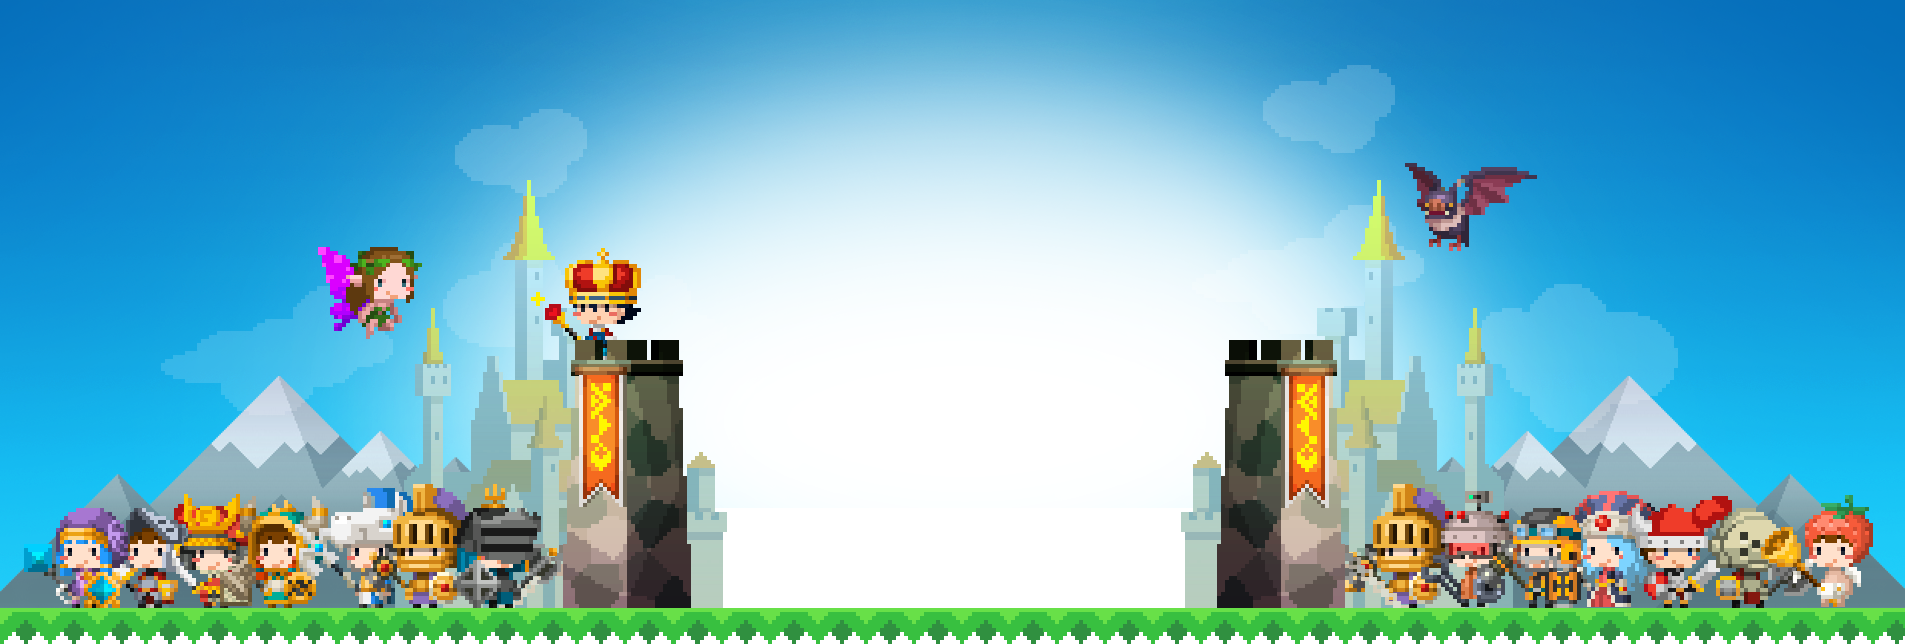
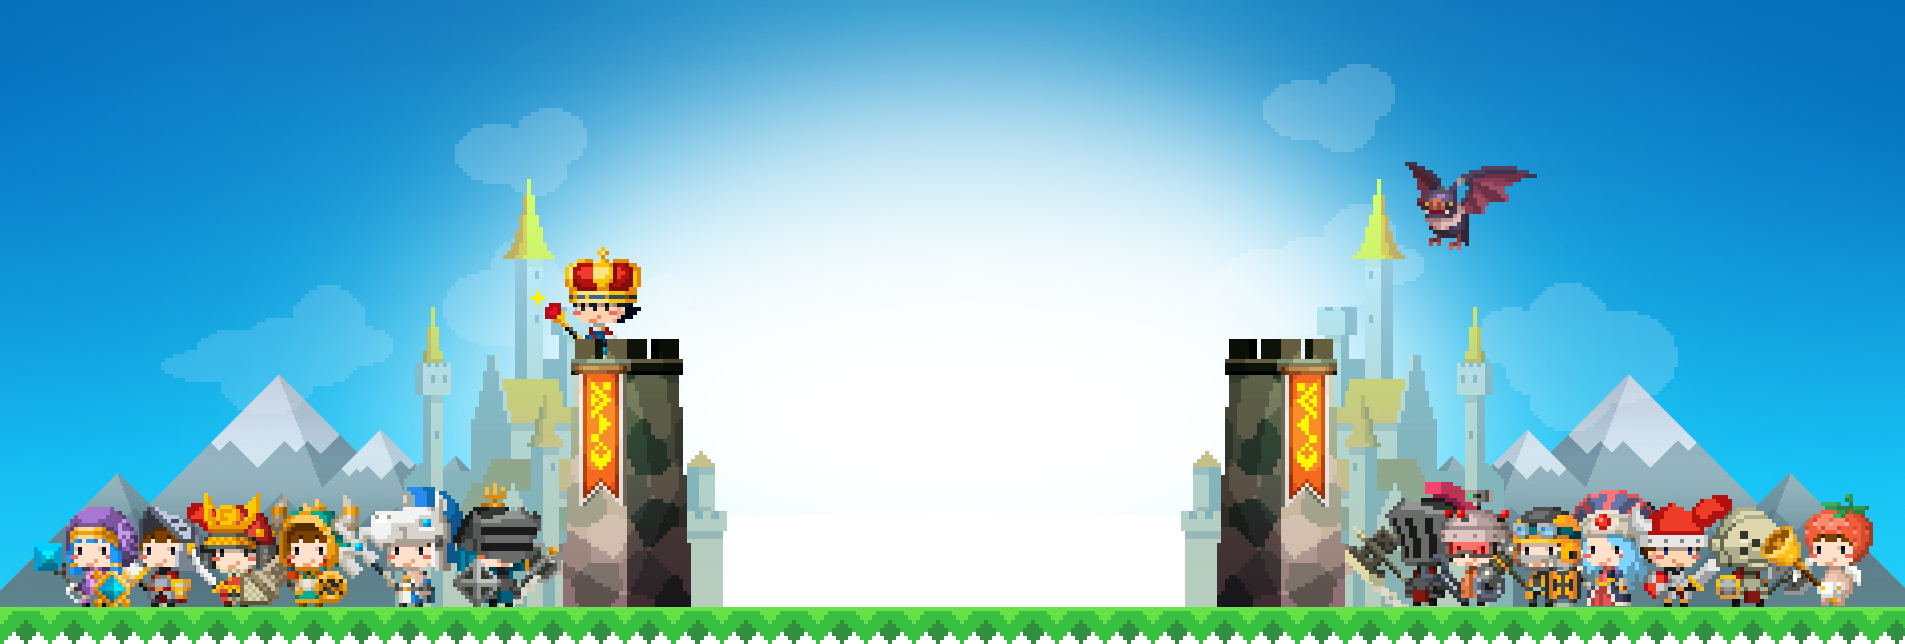
some animations

diff --git a/build/css/styles.css b/build/css/styles.css
@@ -5,21 +5,25 @@ table{border-collapse:separate;border-spacing:0;vertical-align:middle}
 caption,th,td{text-align:left;font-weight:normal;vertical-align:middle}
 a img{border:none}
 body{font:normal 16px/1.5 "Lucida Sans","Lucida Sans Unicode",sans-serif;background:#0e0703;color:#d2d2d2;}
-@media screen and (max-width:48em){body{background:url("../img/bg-small.jpg") no-repeat center 71px #211007}
+@media screen and (max-width:47.9em){body{background:url("../img/bg-small.jpg") no-repeat center 71px #211007}
 }h2{font-size:26px;margin-bottom:20px}
 h3{font-size:20px;margin-bottom:20px;color:#ffd200;}
-@media screen and (max-width:48em){h3{margin-bottom:0}
-}.nav-wrap{background:url("../img/bg-nav.png") repeat-x;height:72px;width:100%;position:fixed;top:0;z-index:5}
+@media screen and (max-width:47.9em){h3{margin-bottom:0}
+}i{font-style:normal}
+.home{background:url("../img/ico-home.png") no-repeat;height:22px;padding-left:29px;}
+a:hover > .home,li.active .home{background-position:0 -22px}
+.nav-wrap{background:url("../img/bg-nav.png") repeat-x;height:72px;width:100%;position:fixed;top:0;z-index:5}
 .nav-main{width:962px;margin:0 auto;position:relative;z-index:2;}
-@media only screen and (max-width:64em){.nav-main{width:800px}
-}@media only screen and (max-width:48em){.nav-main{width:100%}
+@media only screen and (max-width:71.250em){.nav-main{width:800px}
+}@media only screen and (max-width:47.9em){.nav-main{width:100%}
 }.nav-main>li{width:240px;height:71px;-webkit-box-sizing:border-box;-moz-box-sizing:border-box;box-sizing:border-box;float:left;text-align:center;line-height:72px;border-left:solid 1px #cadce7;-webkit-box-shadow:-1px 0 0 #fff;box-shadow:-1px 0 0 #fff;}
-@media only screen and (max-width:64em){.nav-main>li{width:200px}
+.nav-main>li.active a{color:#00c3ff}
+@media only screen and (max-width:71.250em){.nav-main>li{width:200px}
 }.nav-main>li.last{border-right:solid 1px #cadce7;}
-@media only screen and (max-width:48em){.nav-main>li.last{float:right;border-left:none;-webkit-box-shadow:none;box-shadow:none;width:172px}
-}@media only screen and (max-width:48em){.nav-main>li.desktop-link{display:none}
-}.nav-main>li>a{width:100%;height:100%;display:block;font-size:18px;color:#004b76;text-shadow:0 1px 0 #fff;text-decoration:none;}
-.nav-main>li>a:hover{color:#0091e9}
+@media only screen and (max-width:47.9em){.nav-main>li.last{float:right;border-left:none;-webkit-box-shadow:none;box-shadow:none;width:172px}
+}@media only screen and (max-width:47.9em){.nav-main>li.desktop-link{display:none}
+}.nav-main>li>a{width:100%;height:100%;display:block;font-size:18px;color:#004b76;text-shadow:0 1px 0 #fff;text-decoration:none;position:relative;}
+.nav-main>li>a:hover{color:#00c3ff}
 .nav-main>li>a.sns-link{display:inline-block}
 .nav-mobile{position:fixed;top:72px;left:0;right:0;z-index:1;height:0;-webkit-transition:height 0.2s ease-out;-moz-transition:height 0.2s ease-out;-o-transition:height 0.2s ease-out;-ms-transition:height 0.2s ease-out;transition:height 0.2s ease-out;overflow:hidden;}
 .nav-mobile.active{height:204px}
@@ -30,7 +34,7 @@ h3{font-size:20px;margin-bottom:20px;color:#ffd200;}
 #mobile-toggle{border-right:solid 1px #cadce7;-webkit-box-shadow:-1px 0 0 #fff;box-shadow:-1px 0 0 #fff;width:83px;display:none;}
 #mobile-toggle>a{background:url("../img/btn-menu.png") no-repeat;width:35px;height:24px;display:block;position:relative;top:24px;left:24px;}
 #mobile-toggle>a:hover,#mobile-toggle>a.active{background-position:0 100%}
-@media only screen and (max-width:48em){#mobile-toggle{display:block}
+@media only screen and (max-width:47.9em){#mobile-toggle{display:block}
 }.sns-link{background:url("../img/sns-links.png");margin-right:30px;margin-top:22px;text-indent:-9999px;}
 .sns-link.facebook{width:12px;height:24px;background-position:0 0;}
 .sns-link.facebook:hover{background-position:-33px 0}
@@ -39,64 +43,71 @@ h3{font-size:20px;margin-bottom:20px;color:#ffd200;}
 .sns-link.reddit{width:33px;height:27px;background-position:0 -50px;margin-right:0;}
 .sns-link.reddit:hover{background-position:-33px -50px}
 .content-wrap{width:1140px;margin:0 auto 80px;}
-@media only screen and (max-width:64em){.content-wrap{width:656px}
-}@media only screen and (max-width:48em){.content-wrap{width:320px}
+@media only screen and (max-width:71.250em){.content-wrap{width:656px}
+}@media only screen and (max-width:47.9em){.content-wrap{width:320px}
 }.logo-main{background:url("../img/logo-main.png") no-repeat;width:528px;height:153px;text-indent:-9999px;margin:0 auto 24px;}
-@media only screen and (max-width:48em){.logo-main{background:url("../img/logo-small.png") no-repeat;width:310px;height:90px}
+@media only screen and (max-width:47.9em){.logo-main{background:url("../img/logo-small.png") no-repeat;width:310px;height:90px}
 }.section-hero{height:644px;padding-top:92px;position:relative;background:url("../img/bg.png") no-repeat center 72px;z-index:2;}
-@media only screen and (max-width:48em){.section-hero{height:297px;background:none}
-}.warrior{position:absolute;width:124px;height:124px;background:url("../img/warrior-ani.gif") no-repeat;bottom:0;right:-21px;}
-@media only screen and (max-width:48em){.warrior{display:none}
+@media only screen and (max-width:47.9em){.section-hero{height:297px;background:none}
+}.warrior{position:absolute;width:215px;height:124px;background:url("../img/warrior.gif") no-repeat;bottom:0;right:-100px;}
+@media only screen and (max-width:47.9em){.warrior{display:none}
+}.angel{position:absolute;width:104px;height:96px;top:48px;left:-202px;background:url("../img/angel.gif") no-repeat;}
+@media only screen and (max-width:47.9em){.angel{display:none}
 }.section-video{background:url("../img/bg-video.jpg") no-repeat;width:654px;height:397px;top:283px;left:50%;margin-left:-327px;-webkit-box-sizing:border-box;-moz-box-sizing:border-box;box-sizing:border-box;padding:7px 7px 0;position:absolute;z-index:1;display:none;}
-@media only screen and (max-width:48em){.section-video{display:block;width:323px;height:195px;background:url("../img/bg-video-small.png") no-repeat;margin-left:-162px;top:194px;padding:4px 4px 0}
+@media only screen and (max-width:47.9em){.section-video{display:block;width:323px;height:195px;background:url("../img/bg-video-small.png") no-repeat;margin-left:-162px;top:194px;padding:4px 4px 0}
 }.embed-container{position:relative;padding-bottom:56.25%;padding-top:30px;height:0;overflow:hidden;max-width:100%;height:auto;}
-@media only screen and (max-width:48em){.embed-container{padding-top:12px}
+@media only screen and (max-width:47.9em){.embed-container{padding-top:12px}
 }.embed-container > iframe,.embed-container > object,.embed-container > embed{position:absolute;top:0;left:0;width:100%;height:100%}
 .section-signup{background:url("../img/bg-wall.png") no-repeat;width:686px;height:411px;text-align:center;color:#391c0c;position:relative;-webkit-box-sizing:border-box;-moz-box-sizing:border-box;box-sizing:border-box;padding:130px 0 0;margin:0 auto;z-index:2;}
-.section-signup p{width:400px;margin:0 auto 24px}
-@media only screen and (max-width:48em){.section-signup{display:none}
+.section-signup p{width:400px;margin:0 auto 24px;font-size:18px}
+@media only screen and (max-width:47.9em){.section-signup{display:none}
 }.post-signup{position:absolute;top:130px;left:147px}
 .btn-close{width:23px;height:24px;background:url("../img/btn-close.png") no-repeat;position:absolute;top:83px;right:41px;cursor:pointer;}
 .btn-close:hover{background-position:0 100%}
 .input-wrap{width:470px;margin:0 auto;}
-@media screen and (max-width:48em){.input-wrap{width:100%}
+@media screen and (max-width:47.9em){.input-wrap{width:100%}
 }.text-input{-webkit-border-radius:4px;border-radius:4px;background:#ebebeb;-webkit-box-shadow:inset 0 4px #bdbdbd;box-shadow:inset 0 4px #bdbdbd;border:solid 1px #ffd200;font-size:18px;display:inline-block;width:309px;height:42px;padding-left:16px;-webkit-box-sizing:border-box;-moz-box-sizing:border-box;box-sizing:border-box;vertical-align:middle;margin-right:5px;font-family:"Lucida Sans","Lucida Sans Unicode",sans-serif;}
 .text-input:focus,.text-input:active{-webkit-box-shadow:none;box-shadow:none;outline:none;background:#fff}
+.text-input.error{border-color:#f65701}
+.input-error{color:#f65701;text-align:left}
 .btn-submit{width:149px;height:44px;background:url("../img/btn-submit.png") no-repeat;text-indent:-9999px;display:inline-block;border:none;cursor:pointer;}
-@media screen and (max-width:48em){.btn-submit{display:block;margin:20px auto 0}
+@media screen and (max-width:47.9em){.btn-submit{display:block;margin:20px auto 0}
 }.btn-submit:hover{background-position:0 100%}
 .btn-submit:active,.btn-submit:focus{outline:none}
 .btn-watch-video{width:149px;height:44px;background:url("../img/btn-video.png") no-repeat;text-indent:-9999px;display:inline-block;border:none;cursor:pointer;}
 .btn-watch-video:hover{background-position:0 100%}
 .btn-watch-video:active,.btn-watch-video:focus{outline:none}
-.section-signup-secondary{background:url("../img/bg-ground.png") no-repeat;height:0;margin-top:-32px;overflow:hidden;}
-@media only screen and (max-width:48em){.section-signup-secondary{display:block}
-}@media screen and (max-width:48em){.section-signup-secondary{background:none;height:auto;margin:0}
-}.secondary-signup{text-align:center;padding:70px 0 0;}
-.secondary-signup>p{margin-bottom:20px;color:#fff;padding:0 20px}
-@media screen and (max-width:48em){.secondary-signup{padding:50px 0 0}
-}.feature-list{padding:90px 10px 70px;}
-@media screen and (max-width:64em){.feature-list{padding:90px 0 70px}
-}@media screen and (max-width:48em){.feature-list{padding:50px 0 0}
+.section-signup-secondary{background:url("../img/bg-ground.png") no-repeat;height:0;margin-top:-32px;overflow:hidden;position:relative;}
+@media only screen and (max-width:47.9em){.section-signup-secondary{display:block}
+}@media screen and (max-width:47.9em){.section-signup-secondary{background:none;height:auto;margin:0}
+}.secondary-signup{text-align:center;padding:70px 0 0;width:600px;height:150px;position:relative;margin:0 auto;}
+.secondary-signup p{margin-bottom:20px;color:#fff;padding:0 20px}
+@media screen and (max-width:47.9em){.secondary-signup{padding:50px 0 0;width:400px;height:200px}
+}.secondary-post-signup{position:absolute;top:60px;color:#fff;}
+.secondary-post-signup h2{margin-bottom:10px}
+.feature-list{padding:90px 10px 70px;}
+@media screen and (max-width:71.250em){.feature-list{padding:90px 0 70px}
+}@media screen and (max-width:47.9em){.feature-list{padding:50px 0 0}
 }.feature-item{text-align:center;display:inline-block;margin-right:105px;position:relative;}
 .feature-item.last{margin-right:0}
-@media screen and (max-width:64em){.feature-item{text-align:left;margin-right:0;margin-bottom:60px;display:block;zoom:1}
+@media screen and (max-width:71.250em){.feature-item{text-align:left;margin-right:0;margin-bottom:60px;display:block;zoom:1}
 .feature-item:before,.feature-item:after{content:"";display:table}
 .feature-item:after{clear:both}
-}@media screen and (max-width:48em){.feature-item{margin:0 auto 60px;text-align:center}
+}@media screen and (max-width:47.9em){.feature-item{margin:0 auto 60px;text-align:center}
 .feature-item.last{margin-right:auto}
-}@media screen and (max-width:64em){.feature-image{float:left}
-}@media screen and (max-width:48em){.feature-image{float:none}
+}@media screen and (max-width:71.250em){.feature-image{float:left}
+}@media screen and (max-width:47.9em){.feature-image{float:none}
 }.feature-text{width:290px;margin:0 auto;padding:28px 0 0;}
-@media screen and (max-width:64em){.feature-text{position:absolute;padding:50px 20px 0 0;left:372px}
-}@media screen and (max-width:48em){.feature-text{width:100%;position:relative;padding:18px 0 0;left:auto}
+@media screen and (max-width:71.250em){.feature-text{position:absolute;padding:50px 20px 0 0;left:372px}
+}@media screen and (max-width:47.9em){.feature-text{width:100%;position:relative;padding:18px 0 0;left:auto}
 }.slideshow-list{text-align:center;overflow:hidden}
 .slideshow-item{float:left;margin-left:10px;border:solid 3px #404040;-webkit-border-radius:2px;border-radius:2px;cursor:pointer;position:relative;width:277px;height:159px;-webkit-box-sizing:border-box;-moz-box-sizing:border-box;box-sizing:border-box;-webkit-transition:border-color 0.2s ease-out;-moz-transition:border-color 0.2s ease-out;-o-transition:border-color 0.2s ease-out;-ms-transition:border-color 0.2s ease-out;transition:border-color 0.2s ease-out;}
 .slideshow-item:hover{border-color:#ffd200}
 .slideshow-item.first{margin-left:0}
-@media screen and (max-width:64em){.slideshow-item{margin:0 0 50px 70px}
+@media screen and (max-width:71.250em){.slideshow-item{margin:0 0 50px 70px}
 .slideshow-item:nth-child(odd){margin-left:0}
-}@media screen and (max-width:48em){.slideshow-item{margin:0 auto 18px;float:none}
+}@media screen and (max-width:47.9em){.slideshow-item{margin:0 auto 18px;float:none}
+.slideshow-item:nth-child(odd){margin-left:auto}
 .slideshow-item.first{margin-left:auto}
 }.slideshow-link{display:block;width:100%;height:100%;}
 .slideshow-link>img{position:absolute;display:block;width:100%;height:100%}
@@ -104,7 +115,7 @@ h3{font-size:20px;margin-bottom:20px;color:#ffd200;}
 .slideshow-link:hover .thumb-overlay{opacity:1;-ms-filter:none;filter:none}
 .footer-wrap{-webkit-box-sizing:border-box;-moz-box-sizing:border-box;box-sizing:border-box;width:100%;height:126px;padding-top:37px;background:#ebf3f5;color:#a2a2a2;font-size:11px;font-family:'Lucida Sans Unicode',sans-serif;text-align:center}
 .footer{background:url("../img/footer.png") no-repeat;padding-left:117px;width:660px;height:44px;line-height:44px;-webkit-box-sizing:border-box;-moz-box-sizing:border-box;box-sizing:border-box;margin:0 auto;}
-@media screen and (max-width:48em){.footer{width:100%;line-height:2;background-position:30px 0;padding:0 30px 0 160px;text-align:left}
+@media screen and (max-width:47.9em){.footer{width:100%;line-height:2;background-position:30px 0;padding:0 30px 0 160px;text-align:left}
 }.hide{display:none}
 .clearfix{zoom:1}
 .clearfix:before,.clearfix:after{content:"";display:table}

diff --git a/build/index.html b/build/index.html
@@ -9,7 +9,7 @@
     <nav class="nav-wrap">
       <ul class="nav-main">
         <li id="mobile-toggle"><a href="#"></a></li>
-        <li class="desktop-link"><a href="#">Video Trailer</a></li>
+        <li class="active desktop-link"><a href="#"><i class="home"> Video Trailer</i></a></li>
         <li class="desktop-link"><a href="#nav-features">Game Features</a></li>
         <li class="desktop-link"><a href="#nav-screenshots">Screenshots</a></li>
         <li class="last"><a href="facebook.com" class="sns-link facebook">Facebook</a><a href="twitter.com" class="sns-link twitter">Twitter</a><a href="reddit.com" class="sns-link reddit">Reddit</a></li>
@@ -24,6 +24,7 @@
       <h1 class="logo-main"><a href="#">Faraway Kingdom</a></h1>
       <section class="section-signup">
         <div class="warrior"></div>
+        <div class="angel"></div>
         <div class="btn-close"></div>
         <div class="pre-signup">
           <h2>Become the King of Faraway Kingdom!</h2>
@@ -48,18 +49,24 @@
     </header>
     <section class="section-signup-secondary">
       <div class="secondary-signup">
-        <p>Tell me when Faraway Kingdom becomes available in the App Store!</p>
-        <div class="input-wrap">
-          <input type="text" placeholder="Enter your email" class="text-input">
-          <button class="btn-submit">Keep in touch</button>
-          <div class="input-error hide">Please enter a valid email</div>
+        <div class="secondary-pre-signup">
+          <p>Tell me when Faraway Kingdom becomes available in the App Store!</p>
+          <div class="input-wrap">
+            <input type="text" placeholder="Enter your email" class="text-input">
+            <button id="submit-secondary" class="btn-submit">Keep in touch</button>
+            <div class="input-error hide">Please enter a valid email</div>
+          </div>
+        </div>
+        <div style="display:none" class="secondary-post-signup">
+          <h2>Welcome to Faraway Kingdom!</h2>
+          <p>We'll send you a message when Faraway Kingdom is ready to download!</p>
         </div>
       </div>
     </section>
     <div class="content-wrap">
       <section id="nav-features" class="section-info">
         <ul class="feature-list">
-          <li class="feature-item"><img src="img/feature-img-1.png" alt="Feature Image" class="feature-image">
+          <li class="feature-item"><img src="img/feature-img-1.gif" alt="Feature Image" class="feature-image">
             <div class="feature-text">
               <h3>Unlock new dungeons</h3>
               <p>and explore the deep undergrounds of your kingdom.</p>

diff --git a/build/js/scripts.js b/build/js/scripts.js
@@ -13,11 +13,22 @@ function removeSignup(signedUpStatus){
 
 $(function(){
 
+  //Navigation active classes
+  $('.nav-main').on('click', 'li', function(){
+      $(this).addClass('active');
+      $(this).siblings().removeClass('active')
+  });
+
   //Adjust this code to return true if user information is validated properly
   $('#submit-main').click(function(){
     signedUpStatus = true;
     $('.pre-signup').fadeOut(300);
     $('.post-signup').fadeIn(300);
+  });
+  $('#submit-secondary').click(function(){
+    signedUpStatus = true;
+    $('.secondary-pre-signup').fadeOut(300);
+    $('.secondary-post-signup').fadeIn(300);
   });
 
   //User clicks on Watch Video button after signing up

diff --git a/site/scripts/scripts.js b/site/scripts/scripts.js
@@ -13,11 +13,22 @@ function removeSignup(signedUpStatus){
 
 $(function(){
 
+  //Navigation active classes
+  $('.nav-main').on('click', 'li', function(){
+      $(this).addClass('active');
+      $(this).siblings().removeClass('active')
+  });
+
   //Adjust this code to return true if user information is validated properly
   $('#submit-main').click(function(){
     signedUpStatus = true;
     $('.pre-signup').fadeOut(300);
     $('.post-signup').fadeIn(300);
+  });
+  $('#submit-secondary').click(function(){
+    signedUpStatus = true;
+    $('.secondary-pre-signup').fadeOut(300);
+    $('.secondary-post-signup').fadeIn(300);
   });
 
   //User clicks on Watch Video button after signing up
